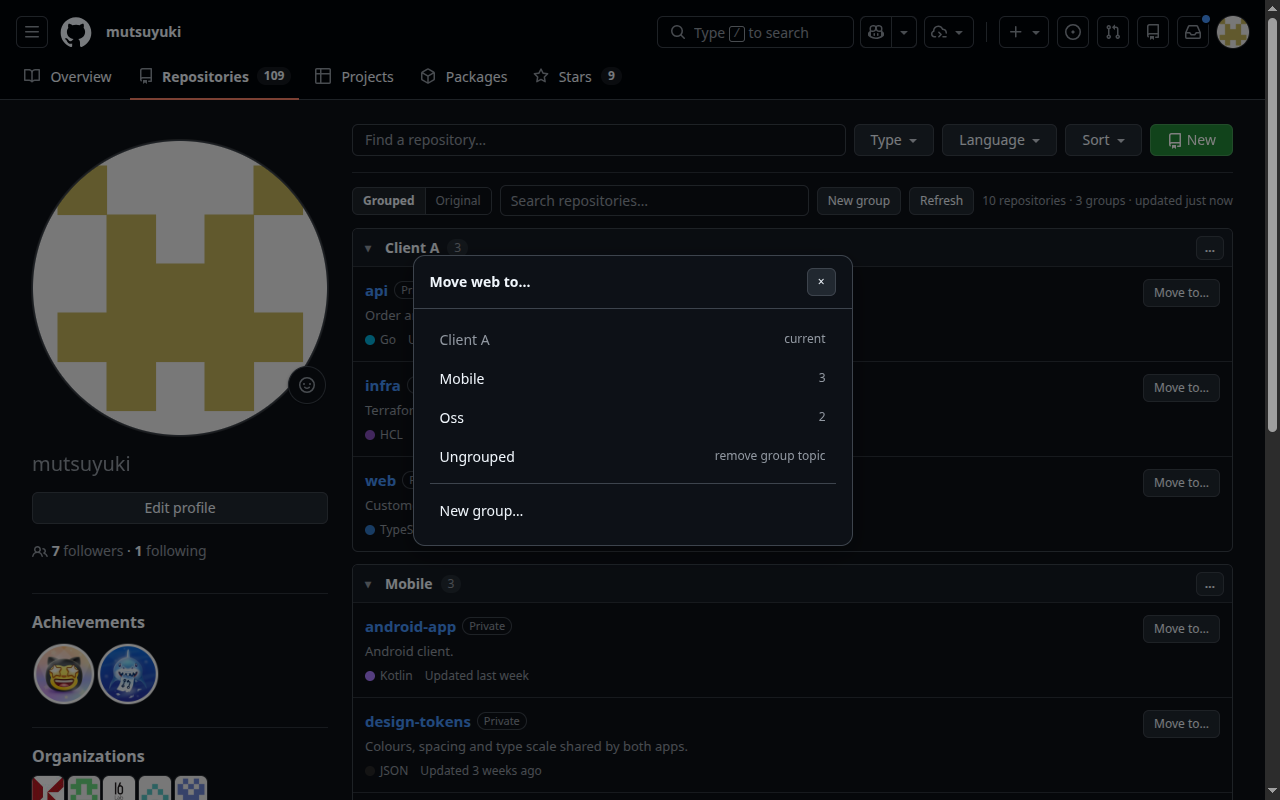
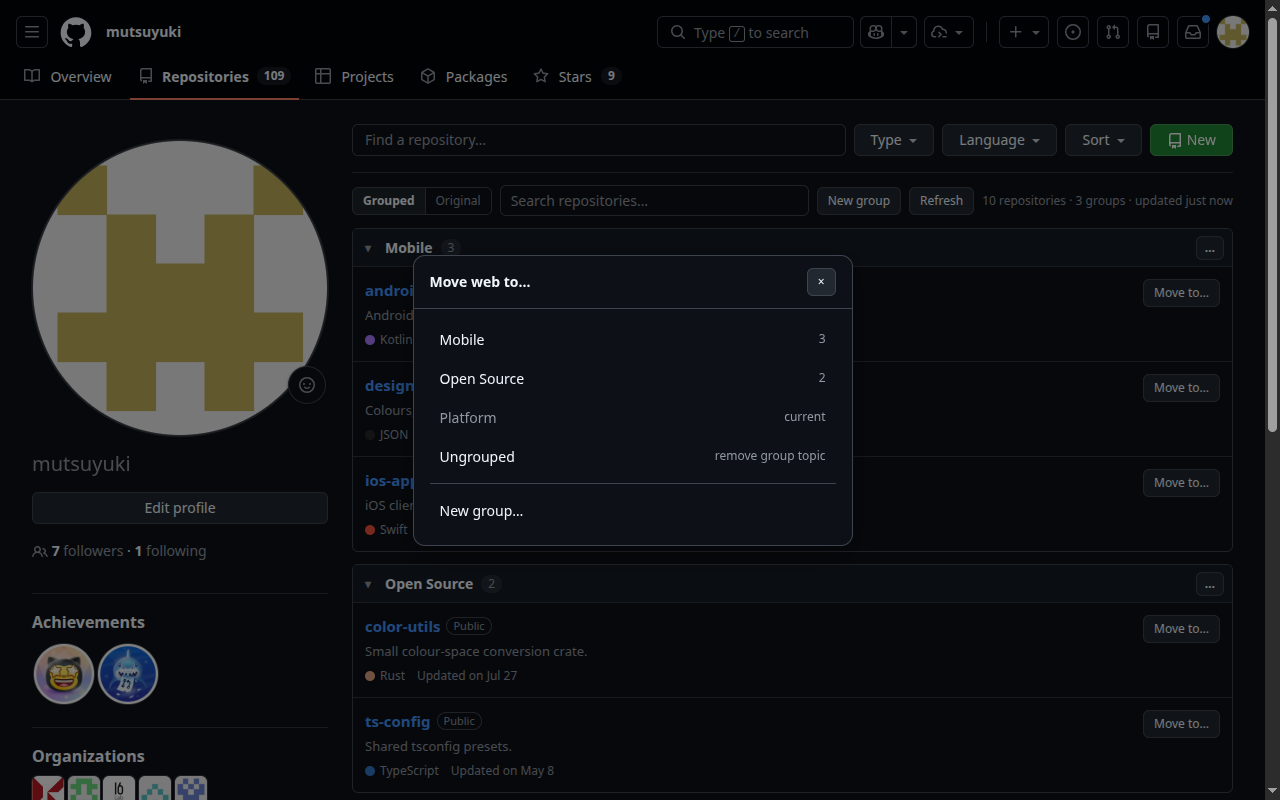
Stop using a client name in the examples
The extension warns against putting company or client names in topics, then opened its own description with
topic-groups-client-a → "Client A". Even as a placeholder that teaches exactly the habit the warning is about.
Every public-facing example now names an area of work instead: the README, the site diagram, the store listing
copy, the settings help text, the new-group placeholder, and the demo dataset behind the screenshots (now
Platform / Mobile / Open Source). Screenshots regenerated.

Also fixes a stray 'folders' left in the settings help text by the terminology rename.

diff --git a/site/index.html b/site/index.html
@@ -25,16 +25,16 @@
   <p>Give a repository a topic that starts with <code>topic-groups-</code>. That is the whole data model.</p>
   <div class="card"><pre class="demo">Repositories                      Repositories (grouped)
 
-api        topic-groups-client-a     ▼ Client A  (3)
-frontend   topic-groups-client-a         api
-firmware   topic-groups-client-a         frontend
-cool-lib   topic-groups-oss              firmware
+api        topic-groups-platform     ▼ Platform  (3)
+frontend   topic-groups-platform         api
+firmware   topic-groups-platform         firmware
+cool-lib   topic-groups-oss              frontend
 test-tool                             ▶ OSS  (1)
                                       ▼ Ungrouped  (1)
                                           test-tool</pre></div>
   <ul>
     <li><strong>Topics are the source of truth.</strong> There is no hidden database. Uninstall the extension and your classification is still on GitHub, as plain topics. Use another machine and it is already there.</li>
-    <li><strong>Repositories keep their names.</strong> No <code>client-a-api</code> prefixes; <code>api</code> stays <code>api</code>.</li>
+    <li><strong>Repositories keep their names.</strong> No <code>platform-api</code> prefixes; <code>api</code> stays <code>api</code>.</li>
     <li><strong>Your other topics are never touched.</strong> Moving a repository between groups rewrites only the <code>topic-groups-*</code> topic.</li>
     <li><strong>Always escapable.</strong> A <em>Grouped | Original</em> switch brings back GitHub's own list at any time.</li>
   </ul>

diff --git a/src/options/options.html b/src/options/options.html
@@ -46,7 +46,7 @@
         <input id="prefix" type="text" autocomplete="off" spellcheck="false" placeholder="topic-groups-">
         <button id="savePrefix" type="button" class="secondary">Save prefix</button>
       </div>
-      <p class="muted">Topics starting with this prefix are shown as folders; e.g. <code>topic-groups-client-a</code> becomes the folder <em>Client A</em>.
+      <p class="muted">Topics starting with this prefix are shown as groups; e.g. <code>topic-groups-platform</code> becomes the group <em>Platform</em>.
         Lowercase letters, numbers and hyphens, ending with a hyphen. This setting lives in this browser only: repositories tagged with a different prefix are not recognised as folders until re-tagged.
         Choose a prefix nobody uses for anything else, because "Delete group" removes topics with this prefix.</p>
       <p id="prefixResult" class="result" hidden></p>

diff --git a/src/content/ui/pickerDialog.ts b/src/content/ui/pickerDialog.ts
@@ -69,7 +69,7 @@ export function openNewGroupDialog(
   const selected = new Set(opts.preselected);
   const available = opts.repos.filter((r) => !opts.conflicted.has(r.name));
 
-  const nameInput = h("input", { className: "gtf-input", type: "text", placeholder: "e.g. Client A", ariaLabel: "Group name" });
+  const nameInput = h("input", { className: "gtf-input", type: "text", placeholder: "e.g. Platform", ariaLabel: "Group name" });
   const preview = h("p", { className: "gtf-preview" });
   const notice = opts.showPrivacyNotice
     ? h(

diff --git a/docs/store-listing.md b/docs/store-listing.md
@@ -22,7 +22,7 @@
 
 **実在のリポジトリは 1 つも写らない。** 拡張のセッションキャッシュに架空のリポジトリ一覧を書き込んでから撮影し、
 最後にキャッシュを消すだけなので、**GitHub には一切書き込まない**（Topic も付けない、リポジトリも作らない）。
-デモの内容は `scripts/demo-screenshots.mjs` の `DEMO` 配列にあり、Client A / Mobile / Oss の 3 グループと
+デモの内容は `scripts/demo-screenshots.mjs` の `DEMO` 配列にあり、Platform / Mobile / Open Source の 3 グループと
 未分類 2 件で構成している。
 
 | ファイル | 内容 |
@@ -52,11 +52,11 @@
 GitHub has no groups for repositories. Once you have more than a handful, the list becomes a wall of names.
 
 Topic Groups for GitHub turns your existing GitHub topics into groups. Tag a repository with a topic such as
-topic-groups-client-a and it appears under a collapsible "Client A" group on your Repositories tab.
+topic-groups-platform and it appears under a collapsible "Platform" group on your Repositories tab.
 
 - Topics are the only source of truth. Nothing is stored in a private database, so your classification stays on
   GitHub: uninstall the extension and it is still there, use another computer and it is already there.
-- Repositories keep their names. No more client-a-api prefixes leaking into clone directories.
+- Repositories keep their names. No more platform-api prefixes leaking into clone directories.
 - Your other topics are never touched. Moving a repository between groups rewrites only the group topic.
 - Always escapable. A Grouped / Original switch brings GitHub's own list back at any time, and GitHub's own
   search, type, language and sort controls keep working.

diff --git a/README.md b/README.md
@@ -3,8 +3,8 @@
 A Chrome extension that shows your GitHub repositories grouped into groups, GitLab-group style,
 using **GitHub Topics** as the only source of truth.
 
-Tag a repository with a topic like `topic-groups-client-a` and the Repositories tab on your profile
-(`github.com/<you>?tab=repositories`) shows it under a collapsible **Client A** group.
+Tag a repository with a topic like `topic-groups-platform` and the Repositories tab on your profile
+(`github.com/<you>?tab=repositories`) shows it under a collapsible **Platform** group.
 Repositories without a `topic-groups-*` topic appear under **Ungrouped**. The prefix is configurable in the
 extension settings; the default was chosen because generic prefixes such as `group-` already appear on thousands of
 repositories (`group-management`, `group-euler`, …) and would be misread as groups. Nothing is stored anywhere but GitHub:
@@ -80,7 +80,7 @@ pasted instead of signing in.
 - **Group names live in GitHub's global topic namespace.** GitHub's documentation states that "topic names are
   always public, even if you create the topic from within a private repository", so follow GitHub's own advice and
   keep company, client or engagement names out of them. Use a neutral code such as `topic-groups-c01` when the name
-  itself is the secret.
+  itself is the secret. The examples throughout this project deliberately name areas of work rather than customers.
   What this does *not* mean: your private repositories are not exposed. GitHub's public topic pages list public
   repositories only, and "you will only see private repositories that you have access to in topic search results".
   Measured on 2026-09-05: a topic used solely on private repositories renders exactly the same public page as a
